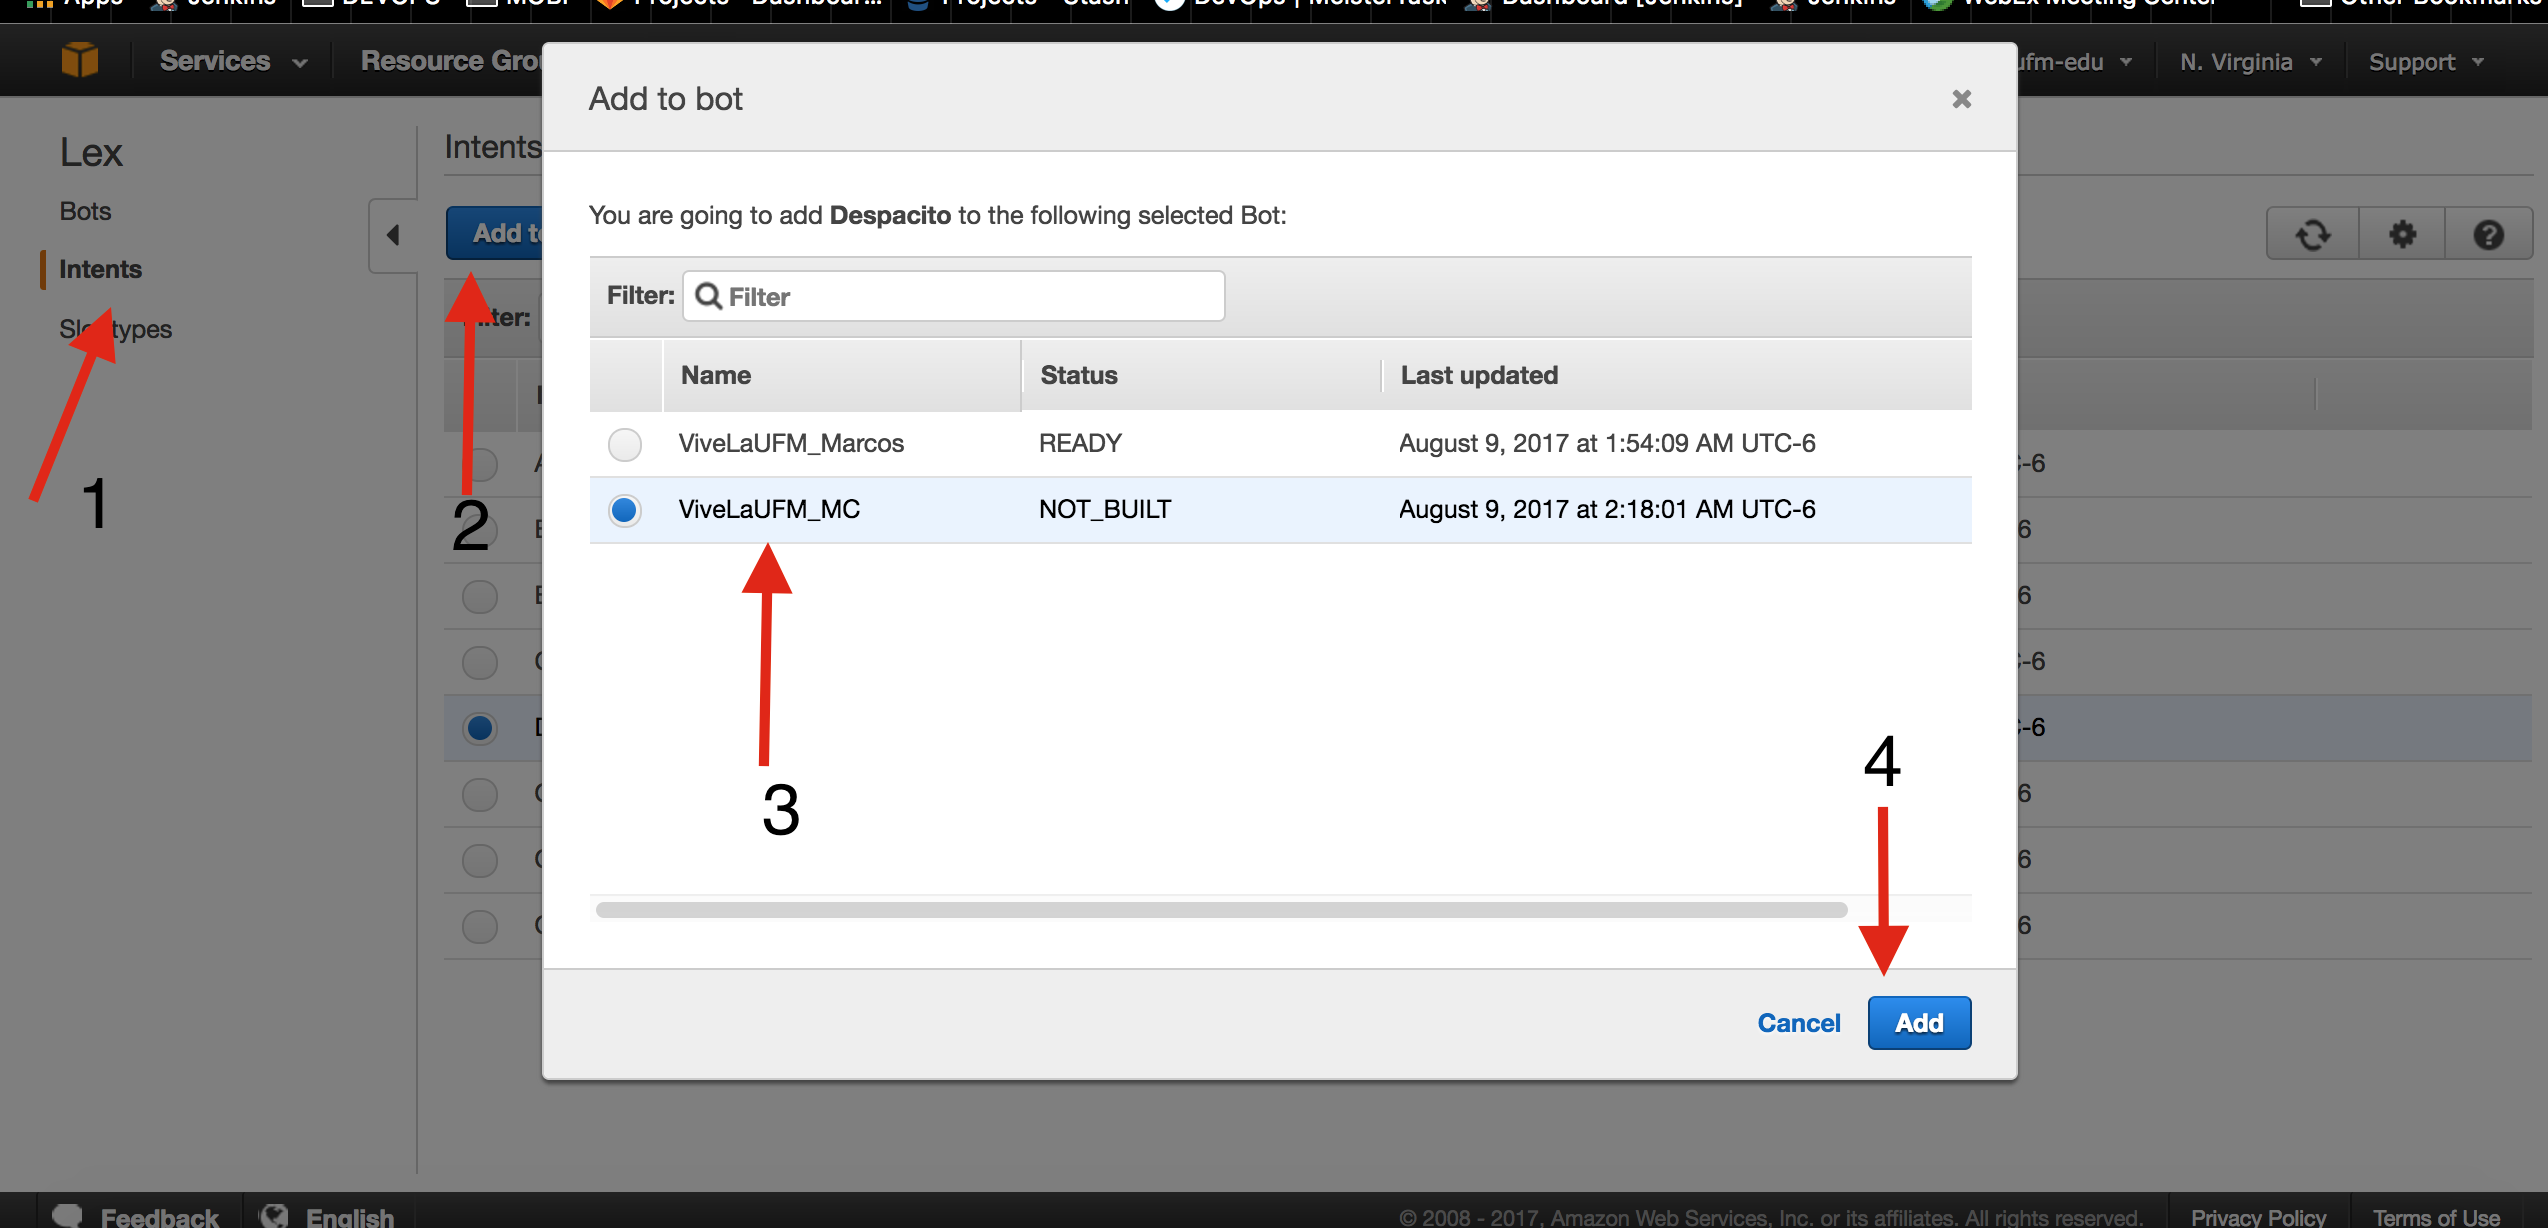
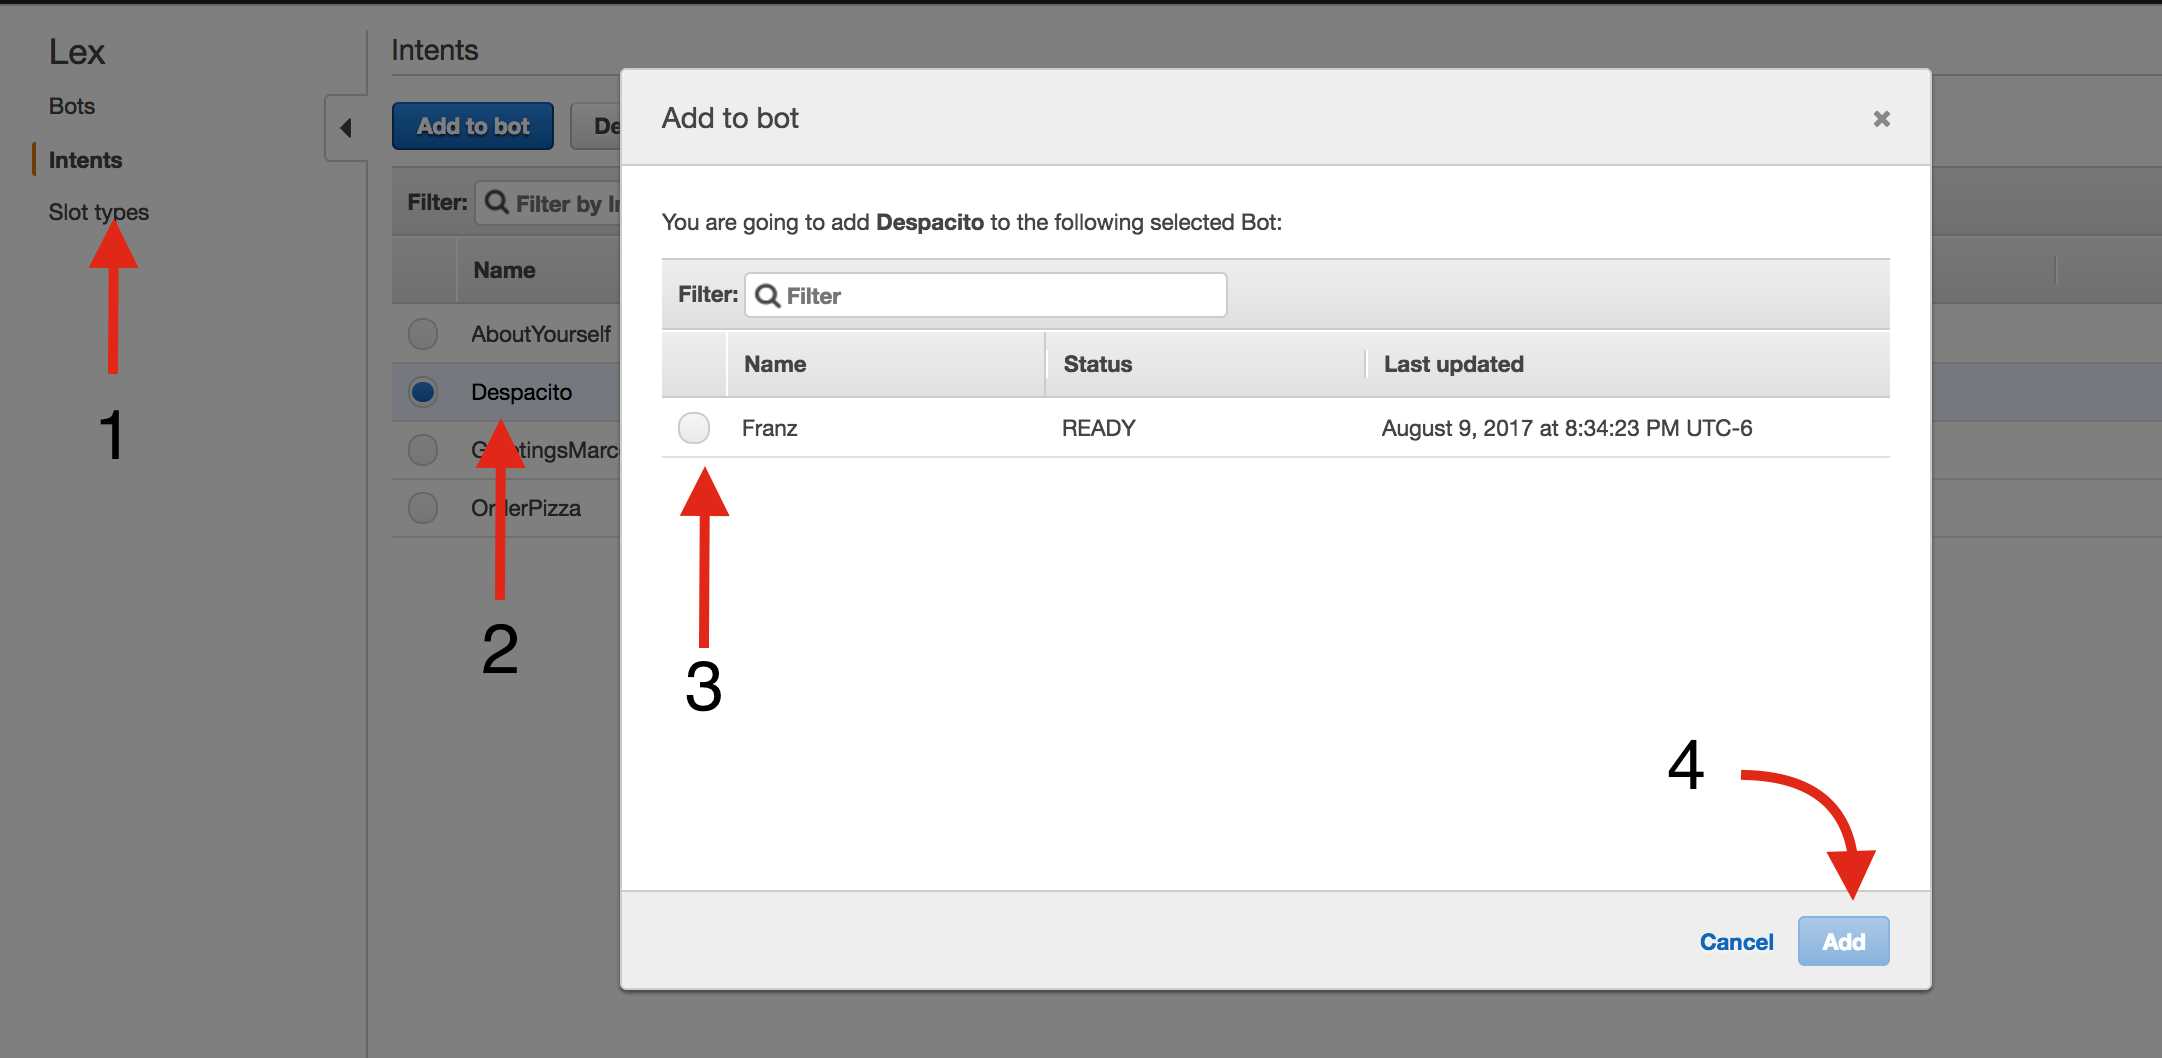
Updates Images

diff --git a/main.js b/main.js
@@ -1,7 +1,6 @@
 "use strict";
  
 
-
 var BotName="Franz"
 
 function getMessage (type) {
@@ -21,7 +20,7 @@ function getMessage (type) {
             which is an event by Universidad Francisco Marroquin `;
                 
         },
- 
+
         'default': function () {
           return 'you know I love you <3' ;
         }

diff --git a/.imgs/lex.md b/.imgs/lex.md
@@ -23,10 +23,9 @@
 
 # 3. Add existing intent into new bot
 
-
-
 > Lex Home >> Intents >> Despacito >> Add to Bot >> Select YOUR bot >>  ADD
 
+![alt text](https://raw.githubusercontent.com/vivelaufm/franz/master/.imgs/Lex_3.png "img")
 
 # 4. Build your bot
 > Go back to your bot's home : Lex Home >> Bots >> Select YOUR bot >> BUILD

diff --git a/.imgs/lambda.md b/.imgs/lambda.md
@@ -26,7 +26,7 @@
 - Maria Galvez  => ViveLaUFM_MariaGalvez
 
 
-
+![alt text](https://raw.githubusercontent.com/vivelaufm/franz/master/.imgs/Lambda_3.png "img")
 
 
 
